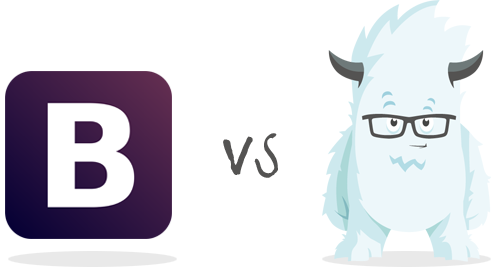
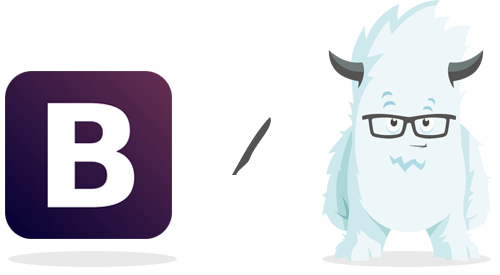
Резюме и небольшая переделка

Changed region(s): [[0.45, 0.4364, 0.57, 0.6691]]

diff --git a/index.html b/index.html
@@ -147,7 +147,7 @@
                     <h3><a href="https://libraries.io/bower/testwood" target="_blank">$ bower install <strong>testwood</strong></a><!-- <a href="https://bower.io/">Bower.io</a> --></h3>
                     <p>Хочется и верстать через тестирование <a href="https://ru.wikipedia.org/wiki/%D0%A0%D0%B0%D0%B7%D1%80%D0%B0%D0%B1%D0%BE%D1%82%D0%BA%D0%B0_%D1%87%D0%B5%D1%80%D0%B5%D0%B7_%D1%82%D0%B5%D1%81%D1%82%D0%B8%D1%80%D0%BE%D0%B2%D0%B0%D0%BD%D0%B8%D0%B5">(Test&nbsp;Driven&nbsp;Development)</a>. А это моя попытка сделать инструмент для этого.</p>
                     <h3><a href="https://libraries.io/bower/mr-utils" target="_blank">$ bower install <strong>mr-utils</strong></a></h3>
-                    <p>Оливье утилит для вёрстки. Например я написал там html-инклюд тег - по сути упрощенная система компонентов с возможность импорта. Чтоб не привлекать фреймворки или php только того чтоб избавиться от копипасты. В продакшн это не идет, но драматически упрощает структуру в сложных проектах.</p>
+                    <p>Сборная солянка утилит и повторяющихся решений для вёрстки (если не смог найти готовых). Например я написал там html-инклюд &mdash; по сути упрощенная система компонентов с возможность импорта. Чтоб не привлекать фреймворки или php только того чтоб избавиться от копипасты. В продакшн это не идет, но драматически упрощает структуру в сложных проектах.</p>
                 </div>
                 <div class="media-key smaller"><img src="images/bower.png"></div>
             </div>
@@ -191,8 +191,8 @@
                     <img src="images/bootstrap-foundation.png">
                 </div>
                 <div class="media-value">
-                    <h3><a href="http://getbootstrap.com/" target="_blank">Bootstrap</a> vs <a href="http://foundation.zurb.com/" target="_blank">Foundation</a></h3>
-                    <p>Нужно прятать от детей.</p>
+                    <h3><a href="http://getbootstrap.com/" target="_blank">Bootstrap</a> и <a href="http://foundation.zurb.com/" target="_blank">Foundation</a></h3>
+                    <p>Нужно прятать от детей, как спички и ножницы.</p>
                 </div>
             </div>
 
@@ -210,7 +210,7 @@
 
             <h3><strong>Омут инструментов веб-разработки</strong></h3>
 
-            <p>Кто лучше? Как выбрать? Что выбрать для себя и для боевого проекта?</p>
+            <p>Кто лучше? Как выбрать?</p>
 
             <p>Инструменты веб-разработки это идеи. Всегда была цель, была проблема и решением становился инструмент. Сейчас я хочу поговорить о целях и проблемах как способе классификации. Есть собственно бизнес-задача которую решает тул. Но есть ещё кое-что, а именно что за разработчик, в какой он ситуации, подразумеваемые условия использования (автор может не подозревать об их существовании), личные предпочтения.</p>
 
